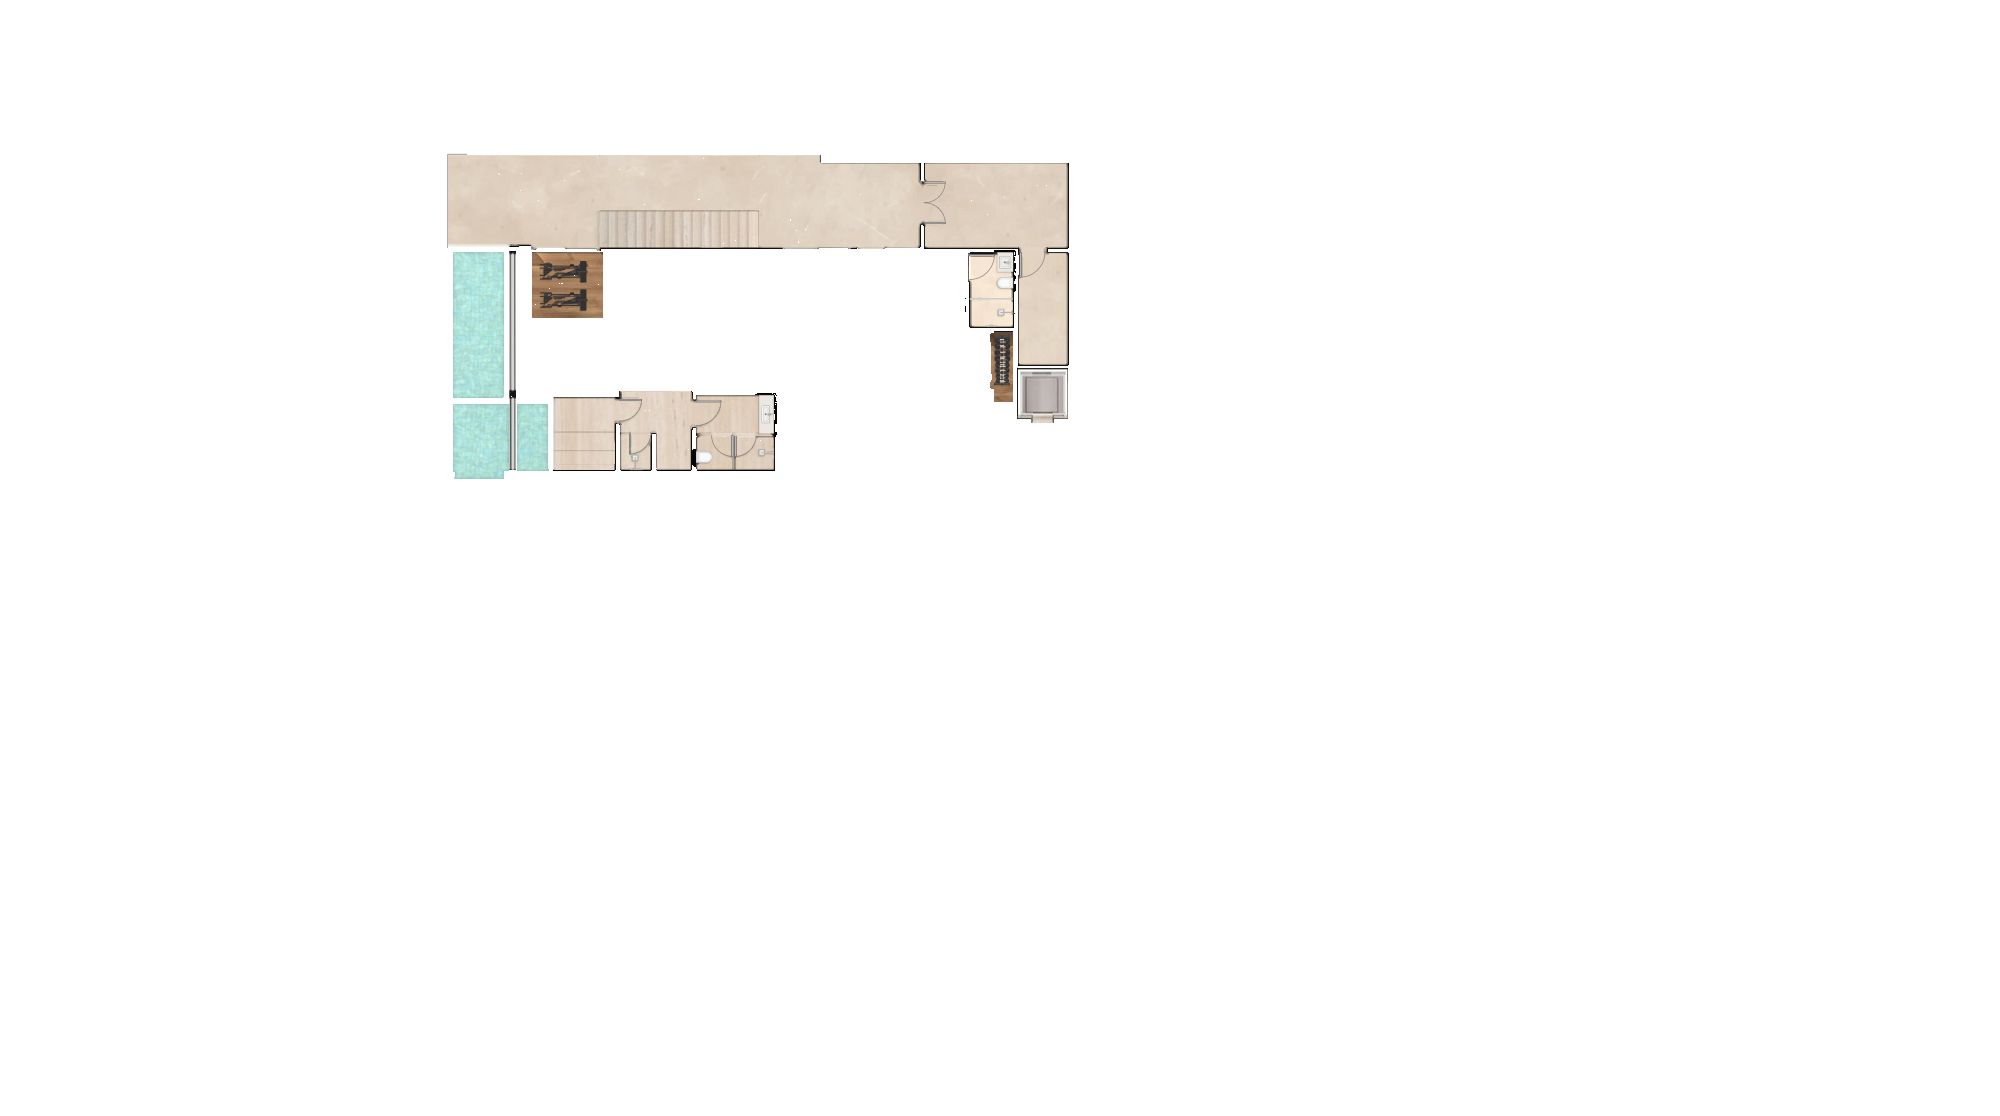
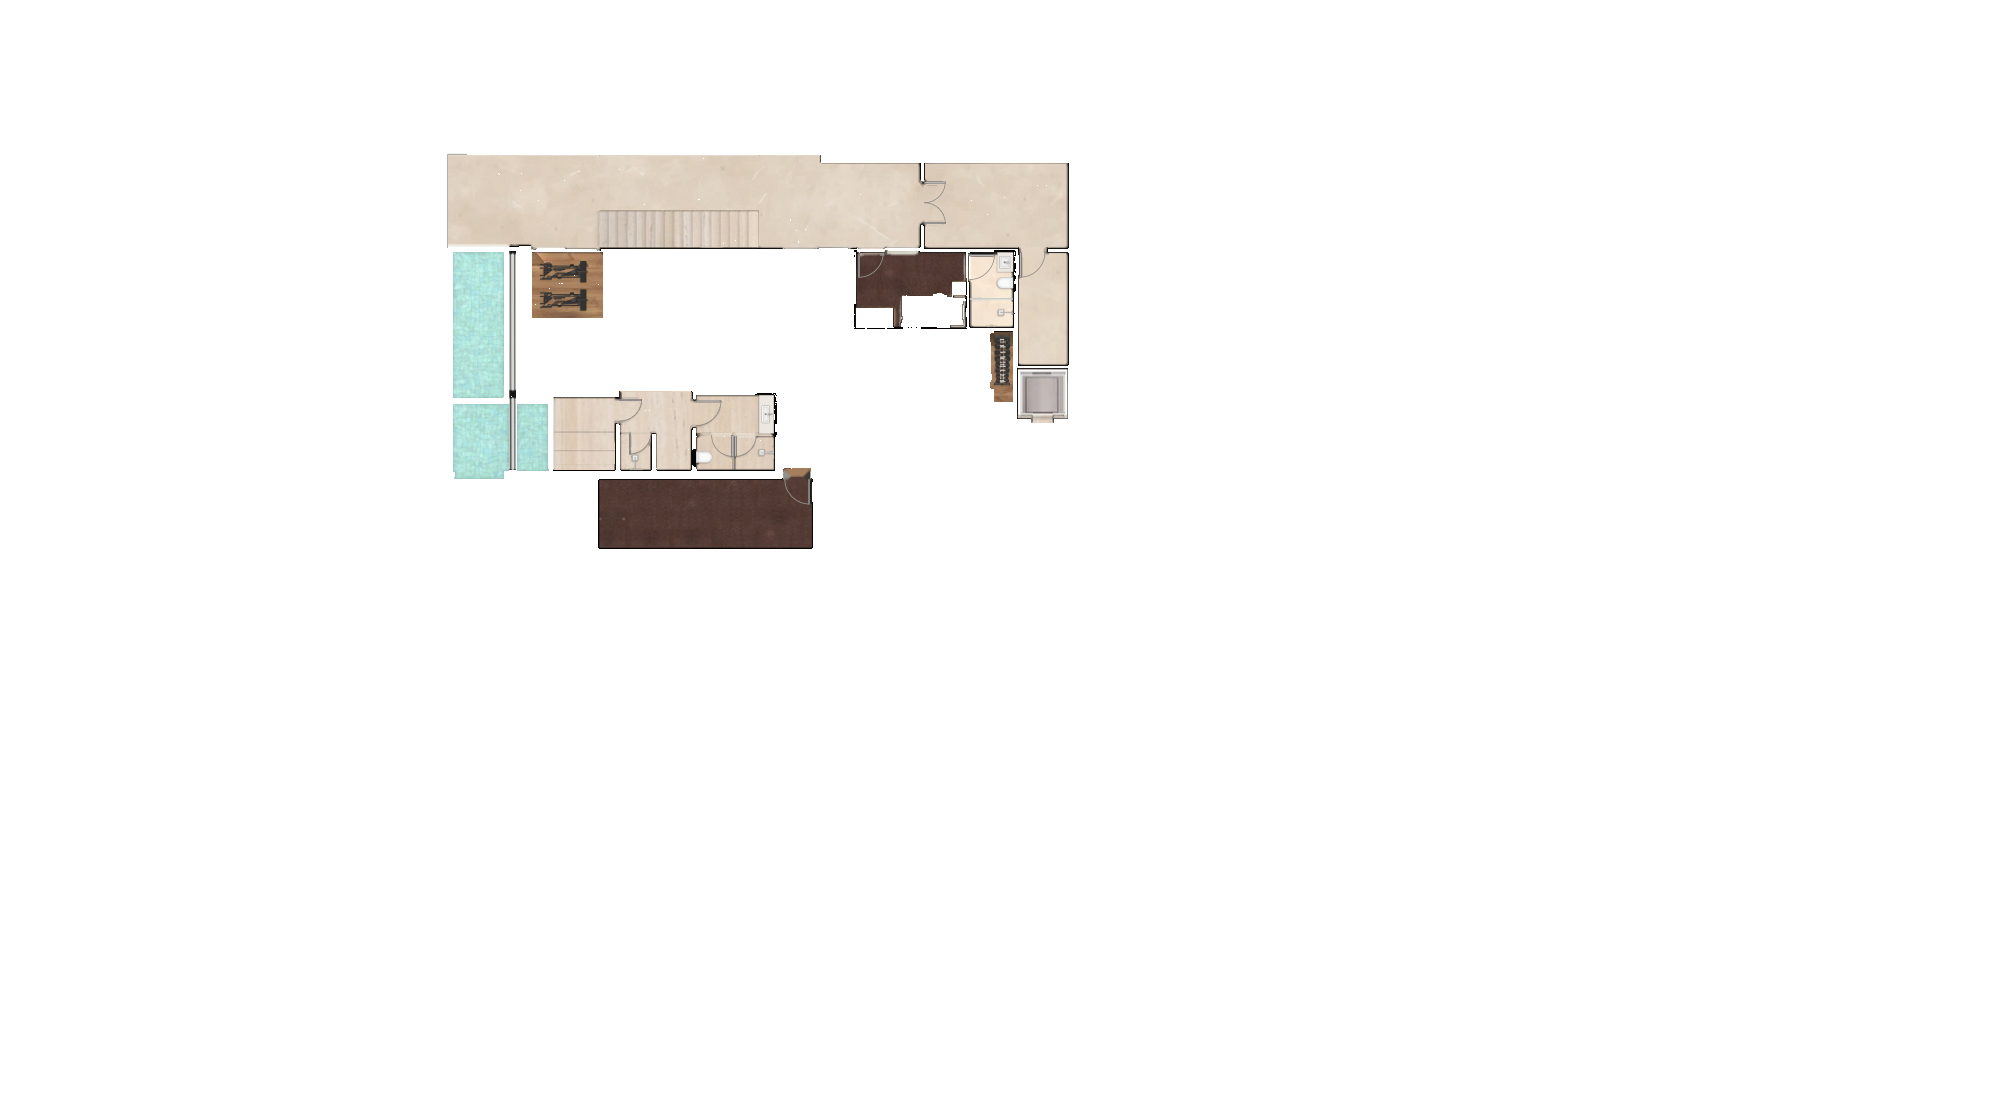
Casa E Subsolo, item 13: granito em grão no DCE e na casa de máquinas de baixo, portas do PDF
Claude-Session: https://claude.ai/code/session_01Mm19WX3KoLN1nXMDF5Ay3F

Changed region(s): [[0.279, 0.4265, 0.434, 0.5179], [0.403, 0.2133, 0.496, 0.3047]]

diff --git a/projetos/POE642_CasaA/scripts/retoque_subsolo_casae.py b/projetos/POE642_CasaA/scripts/retoque_subsolo_casae.py
@@ -895,6 +895,51 @@ def vestiario(out, pg, p2r, chapada, tex):
     return out
 
 
+# item 13: granito. O motor fez o DCE e a casa de máquinas de baixo num mármore marrom com veios claros; o
+# aprovado é o granito Marrom Tabaco em grão (o do Térreo). O piso vira o granito da base (a fonte aprovada
+# na Casa A), no tom do granito do Térreo retocado. No DCE ficam a cama, o criado-mudo e o armário do
+# render (o que é claro e grande), com a sombra curta; as portas do DCE e da casa de máquinas entram pelo
+# PDF, com o arco cinza fino aprovado no granito.
+GRANITO = {"terreo": (52, 59, 83), "base": (55, 60, 84), "legenda": (50, 66, 90),
+           "salas": [{"nome": "DCE", "interior": [(1439.8, 693.5, 1638.2, 829.6), (1444.0, 685.0, 1489.4, 693.5)],
+                      "pecas": True,
+                      "porta": ((1444.0, 697.0, 1446.3, 738.8), (1444.0, 693.5, 1489.4, 738.8))},
+                     {"nome": "casa de máquinas de baixo",
+                      "interior": [(971.0, 1107.4, 1359.0, 1232.0), (1309.4, 1090.3, 1354.7, 1107.4)],
+                      "pecas": False,
+                      "porta": ((1352.4, 1107.4, 1354.7, 1152.7), (1309.4, 1107.4, 1354.7, 1152.7))}],
+           "peca_lum": 120, "peca_area": 15}
+
+
+def granito(out, pg, p2r, chapada, tex):
+    q = GRANITO
+    ganho = np.asarray(q["terreo"], np.float32) / np.asarray(q["base"], np.float32)
+    gr = np.abs(chapada.astype(int) - q["legenda"]).max(axis=2) <= 3
+    for s in q["salas"]:
+        m, parede = ambiente(out, p2r, chapada, s["interior"])
+        manter = np.zeros_like(m)
+        if s["pecas"]:
+            lum = out.astype(np.float32).mean(axis=2)
+            claro = (m & (lum > q["peca_lum"])).astype(np.uint8)
+            claro = cv2.morphologyEx(claro, cv2.MORPH_OPEN, np.ones((3, 3), np.uint8))
+            n, lab, st, _ = cv2.connectedComponentsWithStats(claro)
+            manter = np.isin(lab, [i for i in range(1, n) if st[i, cv2.CC_STAT_AREA] >= q["peca_area"]])
+            manter = cv2.dilate(manter.astype(np.uint8), np.ones((3, 3), np.uint8)).astype(bool)
+        out = pela_base(out, m & ~manter, tex, ganho, buracos=(m & ~manter) & ~gr)
+        if manter.any():
+            x0, y0, x1, y1 = caixa_pdf(p2r, *s["interior"][0], folga=2)
+            reg = out[y0:y1, x0:x1].astype(np.float32)
+            mk = manter[y0:y1, x0:x1].astype(np.float32)
+            sb = cv2.GaussianBlur(cv2.warpAffine(mk, np.float32([[1, 0, -0.6], [0, 1, 0.6]]), mk.shape[::-1]), (0, 0), 0.7)
+            reg *= (1 - 0.3 * sb * (1 - mk))[..., None]
+            out[y0:y1, x0:x1] = np.clip(reg, 0, 255).astype(np.uint8)
+        out = desenhar_porta(out, pg, p2r, *s["porta"], "granito")
+        for r in s["interior"]:
+            out = limpar_paredes(out, p2r, parede, r)
+        print(f"    {s['nome']}: granito em grão em {int((m & ~manter).sum())} px; porta do PDF")
+    return out
+
+
 # Mapa dos erros do render v1 (pontos em pt do PDF do Subsolo, convertidos ao render pela cadeia da base)
 ITENS = [
     (1, "Circulação: a faixa da esquerda saiu em travertino (com uma junta) e com uma parede preta na borda "
@@ -979,6 +1024,7 @@ def main():
         ("antessala: sem a bacia; portas da sauna e da ducha", lambda o: antessala(o, pg, p2r, chapada, tex)),
         ("chuveiros da ducha e do box do vestiário", lambda o: chuveiros(o, pg, p2r, chapada, tex)),
         ("portas do vestiário (e o vestiário refeito, com a bancada e a bacia)", lambda o: vestiario(o, pg, p2r, chapada, tex)),
+        ("granito em grão no DCE e na casa de máquinas de baixo; as portas deles", lambda o: granito(o, pg, p2r, chapada, tex)),
     ]
     for n, (desc, f) in enumerate(itens, 1):
         if n <= args.ate:

diff --git a/projetos/POE642_HANDOFF_SESSAO_LOCAL.md b/projetos/POE642_HANDOFF_SESSAO_LOCAL.md
@@ -650,6 +650,10 @@ python texturizar_base.py Subsolo ../../POE642_CasaC/bases/POE642_CasaC_BASE_Sub
      - a bancada de quartzo com a cuba e a torneira da parede da direita;
      - a bacia na parede da esquerda, com o tampo fechado, como as outras peças desta planta.
      - As portas do DCE e da casa de máquinas de baixo, que estavam sem arco, entram com o granito, no item 13.
+  13. **Granito:** o motor fez o DCE e a casa de máquinas de baixo num mármore marrom com veios claros; o aprovado é o granito Marrom Tabaco em grão, o do Térreo.
+     - O piso vira o granito da base (a fonte aprovada na Casa A), no tom do granito do Térreo retocado (mediana BGR 52, 59, 83).
+     - No DCE ficam a cama, o criado-mudo e o armário do render (o que é claro e grande), com a sombra curta.
+     - As portas do DCE e da casa de máquinas entram pelo PDF, com o arco cinza fino aprovado no granito.
 
 ## Casas A a D · Barlavento nas piscinas
 
